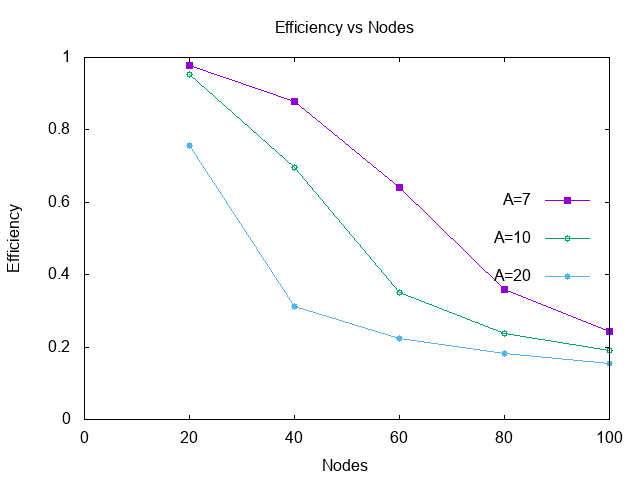
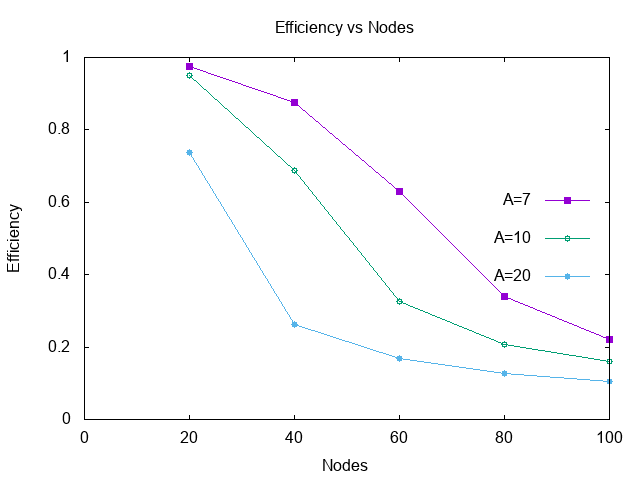
checking graphs

diff --git a/l2/main.cpp b/l2/main.cpp
@@ -36,6 +36,19 @@ double backoff(int n) {
     return (double)randVal * 512.0 / 1000000.0;
 }
 
+std::deque<double> generateFrames(double lambda) {
+    double currTime = 0;
+    std::deque<double> frames;
+
+    while (currTime < T) {
+        double nextTime = currTime + exponentialValue(lambda);
+        frames.push_back(nextTime);
+        currTime = nextTime;
+    }
+
+    return frames;
+}
+
 class Result {
 public:
     int a;
@@ -57,12 +70,14 @@ public:
     int pos;
     int collisionCount;
     double nextFrame;
+    int frameCount;
 
     Node(int t_lambda, int t_pos) {
         lambda = t_lambda;
         pos = t_pos;
         collisionCount = 0;
         nextFrame = exponentialValue(lambda);
+        frameCount = generateFrames(lambda).size();
     }
 
     void handleCollision() {
@@ -70,6 +85,7 @@ public:
         if (collisionCount > 10) {
             collisionCount = 0;
             nextFrame += exponentialValue(lambda);
+            frameCount --;
         } else {
             nextFrame += backoff(collisionCount);
         }
@@ -80,25 +96,28 @@ public:
         nextFrame = max_delay;
     }
 
-    bool senseBusy(double start, double end, int attempt) {
+    void senseBusy(double start, double end) {
         if (start <= nextFrame && nextFrame < end) {
             if(nPersistant) {
-                if (attempt == 1) {
-                    nextFrame = end + backoff(attempt);
-                } else {
+                int attempt = 1;
+                while (attempt <= 11 && nextFrame < end) {
                     nextFrame += backoff(attempt);
+                }
+                
+                if (attempt > 11) {
+                    transmissionAttempts += 1;
+                    frameCount --;           
                 }
             } else {
                 nextFrame = end; //TODO: add backoff
             }
-            return true;
         }
-        return false;
     }
 
     void sendSuccessfully() {
         collisionCount = 0;
         nextFrame += exponentialValue(lambda);
+        frameCount --;
     }
 };
 
@@ -119,6 +138,7 @@ Result simulate(double simulationTime, std::vector<Node> nodes) {
         // Retrieve next event
         int minIdx = 0;
         for (int i = 0; i < nodes.size(); i++) {
+            if (nodes[i].frameCount <= 0) { continue; }
             if (nodes[i].nextFrame < nodes[minIdx].nextFrame) {
                 minIdx = i;
             }
@@ -134,7 +154,7 @@ Result simulate(double simulationTime, std::vector<Node> nodes) {
         bool dropPacket = false;
         
         for (auto &node: nodes) {
-            if (node.pos == minNode.pos) { continue; }
+            if (node.frameCount <= 0 || node.pos == minNode.pos) { continue; }
 
             int distance = abs(minNode.pos - node.pos);
             double sendingTime = minNode.nextFrame;
@@ -147,21 +167,7 @@ Result simulate(double simulationTime, std::vector<Node> nodes) {
                 node.handleCollision();  
                 transmissionAttempts ++;
             } else {
-                if(nPersistant){
-                    // do 10 attempts and drop packet if not successful after
-                    for (int attempt = 1; attempt <=11; attempt ++){
-                        if (attempt == 11){
-                            dropPacket = true;
-                            break;
-                        }
-                        if (!node.senseBusy(arrivalTime, lastBit, attempt)){
-                            
-                            break; 
-                        }
-                    } 
-                } else {
-                    node.senseBusy(arrivalTime, lastBit, 1);     
-                }
+                node.senseBusy(arrivalTime, lastBit);
             }
         }
 
@@ -173,6 +179,13 @@ Result simulate(double simulationTime, std::vector<Node> nodes) {
             minNode.sendSuccessfully(); 
         }
     }
+
+    for (auto node: nodes) {
+        if (node.frameCount < 0) {
+            std::cout << node.frameCount << std::endl;
+        }
+        transmissionAttempts += node.frameCount;
+    } 
 
     double efficiency = (double)transmitted / (double)transmissionAttempts;
     double throughput = (double)transmitted * T_TRANS / simulationTime;
